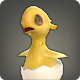
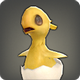
cliffhanger now uses the hatchling pic for the one being saved in that specific GATE

diff --git a/script.js b/script.js
@@ -5,6 +5,23 @@
   const SLOT = 1200;   // 20 minutes in seconds
   const BATCH = 20;    // rows added per infinite-scroll load
 
+  // Special images picked on the 4th draw. GATE_IMAGES[gateName] = [{ name, weight }, ...]
+  // The image file is images/<name-with-dashes>.webp, e.g. 'wayward hatchling' ->
+  // images/wayward-hatchling.webp. GATEs not listed here just use their own icon.
+  //cliffhanger is the wayward hatchling and the default pic for cliffhanger
+  const CLIFFHANGER_HATCHLING = [
+    { name: 'cliffhanger',         weight: 1 },
+    { name: 'storm hatchling',     weight: 1 },
+    { name: 'serpent hatchling',   weight: 1 },
+    { name: 'flame hatchling',     weight: 1 },
+    { name: 'black chocobo chick', weight: 1 },
+    { name: 'princely hatchling',  weight: 1 },
+    { name: 'heavy hatchling',     weight: 1 },
+  ];
+  const GATE_IMAGES = {
+    'Cliffhanger': CLIFFHANGER_HATCHLING,
+  };
+
   // EVENTS[minute] = the GATEs that can happen in that time slot (:00, :20, :40).
   //   name      GATE name (must match ALL_TYPES / TIMING / icon file name)
   //   weight    chance of this GATE relative to the others in the same slot
@@ -18,27 +35,27 @@
   //notice variant weights do not add up to 100.
   //AFO Cieldalaes has 3 routes, I wasn't sure what to call them
   const AFO_CIELDALAES_VARIANTS = [
-    { name: 'Cieldalaes: Sea Route', weight: 1},
-    { name: 'Cieldalaes: Cave Route', weight: 1},
+    { name: 'Cieldalaes: Sea Route',   weight: 1},
+    { name: 'Cieldalaes: Cave Route',  weight: 1},
     { name: 'Cieldalaes: River Route', weight: 1}
   ];
   
   //AFO golden saucer also has 3 routes, and I just named them based on where you start
   const AFO_GS_VARIANTS = [
-    { name: 'Event Square Route', weight: 1},
-	{ name: 'Wonder Square Route', weight: 1},
-	{ name: 'Round Square Route', weight : 1}
+    { name: 'Event Square Route',  weight: 1},
+	  { name: 'Wonder Square Route', weight: 1},
+	  { name: 'Round Square Route',  weight: 1}
   ];
   
   const LEAP_VARIANTS = [
-    { name: "The Fall of Belah'dia", weight: 9},
+    { name: "The Fall of Belah'dia",   weight: 9},
     { name: 'The Falling City of Nym', weight: 9},
-    { name: 'Sylphstep', weight: 9}
+    { name: 'Sylphstep',               weight: 9}
   ];
   
   const CLIFFHANGER_VARIANTS = [
-    { name: 'Round Square', weight: 7},
-	{ name: 'Wonder Square East', weight : 7}
+    { name: 'Round Square',        weight: 7},
+	  { name: 'Wonder Square East',  weight: 7}
   ];
   
   //this is just a filler, Wind and Slice have no "variants" that I know of
@@ -104,21 +121,27 @@
     return items[items.length - 1];
   }
 
-  // Returns { name, variant } for the slot starting at slotStart.
-  //   1st draw -> which GATE        (modulus = total weight of the GATEs in the slot)
-  //   2nd draw -> which variant     (modulus = total weight of that GATE's variants)
-  // variant is null when the chosen GATE has no variants.
+  // Returns { name, variant, image } for the slot starting at slotStart.
+  //   1st draw -> which GATE      (modulus = total weight of the GATEs in the slot)
+  //   2nd draw -> which variant   (modulus = total weight of that GATE's variants)
+  //   3rd draw -> not used yet
+  //   4th draw -> which image     (only for GATEs listed in GATE_IMAGES, e.g. Cliffhanger)
+  // All four draws are always taken in order, so what a draw means never depends on
+  // whether an earlier step had anything to pick.
+  // variant / image are null when the chosen GATE has none.
   function getGate(slotStart) {
     // Slot start is a multiple of 1200s, so the UTC minute is 0, 20 or 40.
     const minutes = (Math.floor(slotStart / SLOT) % 3) * 20;
     const events = EVENTS[minutes];
     const next = xorshift128(slotStart);
-    const gate = pickWeighted(events, next());
-    let variant = null;
-    if (gate.variants && gate.variants.length > 0) {
-      variant = pickWeighted(gate.variants, next()).name;
-    }
-    return { name: gate.name, variant };
+    const d1 = next(), d2 = next(), /* d3 */ _ = next(), d4 = next();
+
+    const gate = pickWeighted(events, d1);
+    const variant = gate.variants && gate.variants.length > 0
+      ? pickWeighted(gate.variants, d2).name : null;
+    const images = GATE_IMAGES[gate.name];
+    const image = images && images.length > 0 ? pickWeighted(images, d4).name : null;
+    return { name: gate.name, variant, image };
   }
 
   const slotOf = (nowSec) => Math.floor(nowSec / SLOT) * SLOT;
@@ -171,22 +194,30 @@
   }
 
   // ---------- Row building ----------
-  function makeIcon(name) {
+  function makeIcon(name, image) {
     const img = document.createElement('img');
     img.className = 'icon';
     img.width = 40;
     img.height = 40;
     img.alt = '';
     img.loading = 'lazy';
-    img.src = ICON_DIR + slug(name) + ICON_EXT;
-    img.addEventListener('error', () => { img.removeAttribute('src'); }); // keep the 40x40 placeholder box
+    img.src = ICON_DIR + slug(image || name) + ICON_EXT;
+    img.addEventListener('error', () => {
+      if (image && img.dataset.fallback !== '1') {
+        // special image missing: fall back to the GATE's own icon
+        img.dataset.fallback = '1';
+        img.src = ICON_DIR + slug(name) + ICON_EXT;
+      } else {
+        img.removeAttribute('src'); // keep the 40x40 placeholder box
+      }
+    });
     return img;
   }
 
-  function makeRow(slotStart, name, tag, variant) {
+  function makeRow(slotStart, name, tag, variant, image) {
     const row = document.createElement('div');
     row.className = 'row';
-    row.appendChild(makeIcon(name));
+    row.appendChild(makeIcon(name, image));
 
     const info = document.createElement('div');
     info.className = 'info';
@@ -234,23 +265,23 @@
   //   coming   -> after in-progress ends, the next GATE (counts down to its start)
   function computePinned(now) {
     const s = slotOf(now);
-    const { name, variant } = getGate(s);
+    const { name, variant, image } = getGate(s);
     const t = TIMING[name];
     const elapsed = now - s;
     if (elapsed < t.entry_period) {
-      return { slot: s, name, variant, state: 'entry', end: s + t.entry_period };
+      return { slot: s, name, variant, image, state: 'entry', end: s + t.entry_period };
     }
     if (elapsed < t.entry_period + t.in_progress) {
-      return { slot: s, name, variant, state: 'progress', end: s + t.entry_period + t.in_progress };
+      return { slot: s, name, variant, image, state: 'progress', end: s + t.entry_period + t.in_progress };
     }
     const next = s + SLOT;
     const g = getGate(next);
-    return { slot: next, name: g.name, variant: g.variant, state: 'coming', end: next };
+    return { slot: next, name: g.name, variant: g.variant, image: g.image, state: 'coming', end: next };
   }
   function renderCurrent() {
     pinned = computePinned(nowSec());
     currentSlot = pinned.slot;
-    const row = makeRow(pinned.slot, pinned.name, TAGS[pinned.state], pinned.variant);
+    const row = makeRow(pinned.slot, pinned.name, TAGS[pinned.state], pinned.variant, pinned.image);
     row.classList.add('state-' + pinned.state);
     const cd = document.createElement('div');
     cd.className = 'countdown';
@@ -275,7 +306,7 @@
       if (enabled.has(g.name)) {
         const li = document.createElement('li');
         li.dataset.time = nextSlot;
-        li.appendChild(makeRow(nextSlot, g.name, null, g.variant));
+        li.appendChild(makeRow(nextSlot, g.name, null, g.variant, g.image));
         frag.appendChild(li);
         added++;
       }
@@ -379,7 +410,7 @@
     const title = p.name + ' – entry is open';
     const opts = {
       body: (p.variant ? p.variant + '. ' : '') + `You can enter for the next ${mins} min.`,
-      icon: ICON_DIR + slug(p.name) + ICON_EXT,
+      icon: ICON_DIR + slug(p.image || p.name) + ICON_EXT,
       tag: 'gate-' + p.slot,
     };
     try {
